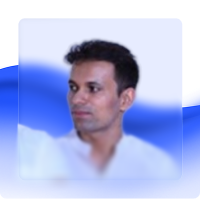
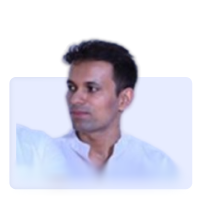
Update portfolio content and homepage wave

diff --git a/src/components/HomepageChatExperience.tsx b/src/components/HomepageChatExperience.tsx
@@ -151,6 +151,7 @@ function HomepageBottomWave({ isVisible }: { isVisible: boolean }) {
         preset="bottomWave"
         edgeFeather={[0.35, 0, 0, 0]}
         enableCenterElement={false}
+        gradientMapBlend={0}
       />
     </Box>
   );

diff --git a/content/projects/double-ai.md b/content/projects/double-ai.md
@@ -40,7 +40,7 @@ chatContext: Use this project when answering about Cardtree AI, Double.ai, twin 
 
 ## Product
 
-- At Cardtree technologies, we have our product the Double.ai, I work on the whole app, new 0 to 1 features and  AI twin agent experiences built to act as an identity layer and voice agent that can work on a user's behalf.
+- At Cardtree technologies, we have our product the Double.ai, I work on the whole app, new 0 to 1 features and  AI twin agent experiences built to act as an identity layer that can work on a user's behalf. The ideal customer profile are sales teams, professional, coaches etc. The founder was a head of marketting at Exotel and from there he got the idea to build this product.
 - The primary audience includes sales, marketing, and solutions teams.
 - My role covers end-to-end product experience design in collaboration with the founder and engineering teams.
 
@@ -48,12 +48,12 @@ chatContext: Use this project when answering about Cardtree AI, Double.ai, twin 
 
 ## Problem
 
-- Sales, marketing, and solutions teams need AI workflows that can represent a user, speak on their behalf, and still feel understandable enough to trust. 
-- The design challenge is not just making an assistant respond; it is shaping an identity-led agent experience where users can understand what the AI twin can do, where it needs human input, and how voice-led actions fit into real team workflows.
+- The product was first built as an identity layer and a digital business card profile for Sales, marketing, and solutions teams. later on with the updates and advancementents in ai the product pivoted to being an ai clone agent first product that can represent a user, speak on their behalf with their cloned voice, and do agentic tasks and generate leads.  
+- The design challenge was to work on many 0 to 1 features; shaping an identity-led agent experience where visitor can talk to the user's AI clone, and get all the relevant information he cant to then convert into a possible lead. 
 
 ## My Role & Responsibility
 
-- I work as a product designer across the end-to-end product experience. My responsibility spans product framing, interaction flows, voice-agent experience design, and collaboration with the founder and engineering teams to turn features and concepts into usable product surfaces. 
+- I work as a product designer across the end-to-end product experience. My responsibility spans research, interaction flows, voice-agent experience design, and collaboration with the founder and engineering teams to turn features and concepts into reality at fast pace. 
 
 ## What I Worked On in Double.ai
 
@@ -76,23 +76,23 @@ chatContext: Use this project when answering about Cardtree AI, Double.ai, twin 
 
 ## Design Process
 
-The product changes quickly because AI voice models, agent capability, and user expectations are still moving. The design process starts by translating founder-level product direction into concrete flows, then checking the idea against competitor benchmarks, technical feasibility, and the user's trust needs.
+The product demands a fast paced process because AI voice models, agent capabilities, and user expectations are advancing very quickly so as a company that is being bootstrapped, it was our job to work on as many features and ship them quickly. The design process starts by translating founder-level product direction into research and benchmarking and then hi fidelity ui and user flows, which then can be developed quickly and tested in dev and shipped to production. It is addictive some times.
 
-Because the company is bootstrapped, prioritization happens close to the product. Daily standups are used to discuss what matters next, unblock engineering, and keep new feature work tied to the most urgent product risks. For each feature, the work moves from framing the user problem to interaction flows, product screens, edge states, and handoff-ready details for engineering.
+Because the company is bootstrapped, prioritization happens to make the product ready for demos as we were actively looking for investments. Daily standups are used to discuss what matters next, unblock engineering, and keep new feature work tied to the most urgent product features. For each feature, the work moves from research and benchmarking flows, product screens, edge states, and handoff-ready details for engineering.
 
 Post-launch learning is also part of the process. The team watches user recordings and interactions in PostHog to understand where people pause, misunderstand the product, or fail to reach value. Those observations feed back into navigation, onboarding, messaging, and feature refinements.
 
 ## Key Design Decisions
 
-- Pivoting from a digital business card product to a voice-enabled AI agent using the user's knowledge base.
+- Pivoting from a digital business card product to a voice and text-enabled AI agent using the user's knowledge base from various sources and having agentic behavior.
 - Making agent capability understandable by showing what the AI twin can do, where it needs setup, and when human input still matters.
 - Treating voice configuration as a product trust surface, not only a settings page, because voice-led workflows require users to understand identity, tone, and control.
 - Designing product areas such as onboarding, usage limits, analytics, pricing, billing, and knowledge base as connected parts of the same activation journey.
 
 ## Outcome and Impact
 
-Worked on 17+ end-to-end features while collaborating with the founder and engineering team. The product has not yet reached its first paying customer, so the honest current outcome is product learning rather than revenue proof. The team has seen more traffic and uses PostHog recordings to study interaction patterns and improve the product where the experience is unclear.
+Worked on 17+ end-to-end features while collaborating with the founder and engineering team. Understanding the users by monitoring their activity. Got live feedback from ex marketting heads from razorpay on the product and what needs to be done to take it. live etc. The product has not yet reached its first paying customer but has more than 800 casual free users and under 10 serious users yet to convert to paying customers, the company is in lauch phase where it is sending regular cold email campaings. The team has seen more traffic and uses PostHog recordings to study interaction patterns and improve the product where the experience is unclear.
 
 ## What I Learned
 
-This work reinforced that AI product design cannot be separated from business thinking and engineering quality. If the user problem is unclear, the model capability is weak, or the product path to value is confusing, users will not pay for the product. Design matters because it can connect those concerns: user motivation, business value, technical feasibility, and trust in the experience.
+This work showed me that product design cannot be separated from business and engineering and ultimately companies success. Design is directly contibuting to the product's success. If the user persona and user problems are unclear, the model and agent capability is weak, or the product path to value is confusing, users will not pay for the product. Design matters because it can connect those concerns and show the value to the user who will ultimately pay.

diff --git a/content/projects/maruti-smartplay-pro-x.md b/content/projects/maruti-smartplay-pro-x.md
@@ -31,11 +31,11 @@ This infotainment system debuted with the Maruti Suzuki Victoris.
 
 ## Problem
 
-The product needed to support a next-generation 10.1-inch in-vehicle infotainment experience for production vehicles. Unlike a concept interface, the work had to account for real automotive use: glanceability, handoff to engineering, production constraints, and the expectation that the system would ship at manufacturing scale.
+The product needed to support a next-generation 10.1-inch in-vehicle infotainment experience for production vehicles. Unlike a concept interface, the work had to account for real automotive use, handoff to engineering, production constraints, and the expectation that the system would ship at manufacturing scale.
 
 ## My Role & Responsibility
 
-I contributed as a product designer on the in-vehicle experience. The role centered on automotive HMI thinking: structuring interaction flows, clarifying screen behavior, supporting engineering handoff, and keeping the interface aligned with the constraints of a production vehicle program.
+I contributed as a product designer on the in-vehicle experience. The role centered on automotive HMI thinking: structuring interaction flows, clarifying screen behavior, creating hi fidelity ui and assets and supporting engineering handoff, and keeping the interface aligned with the constraints of a production vehicle program.
 
 ## Design Process
 